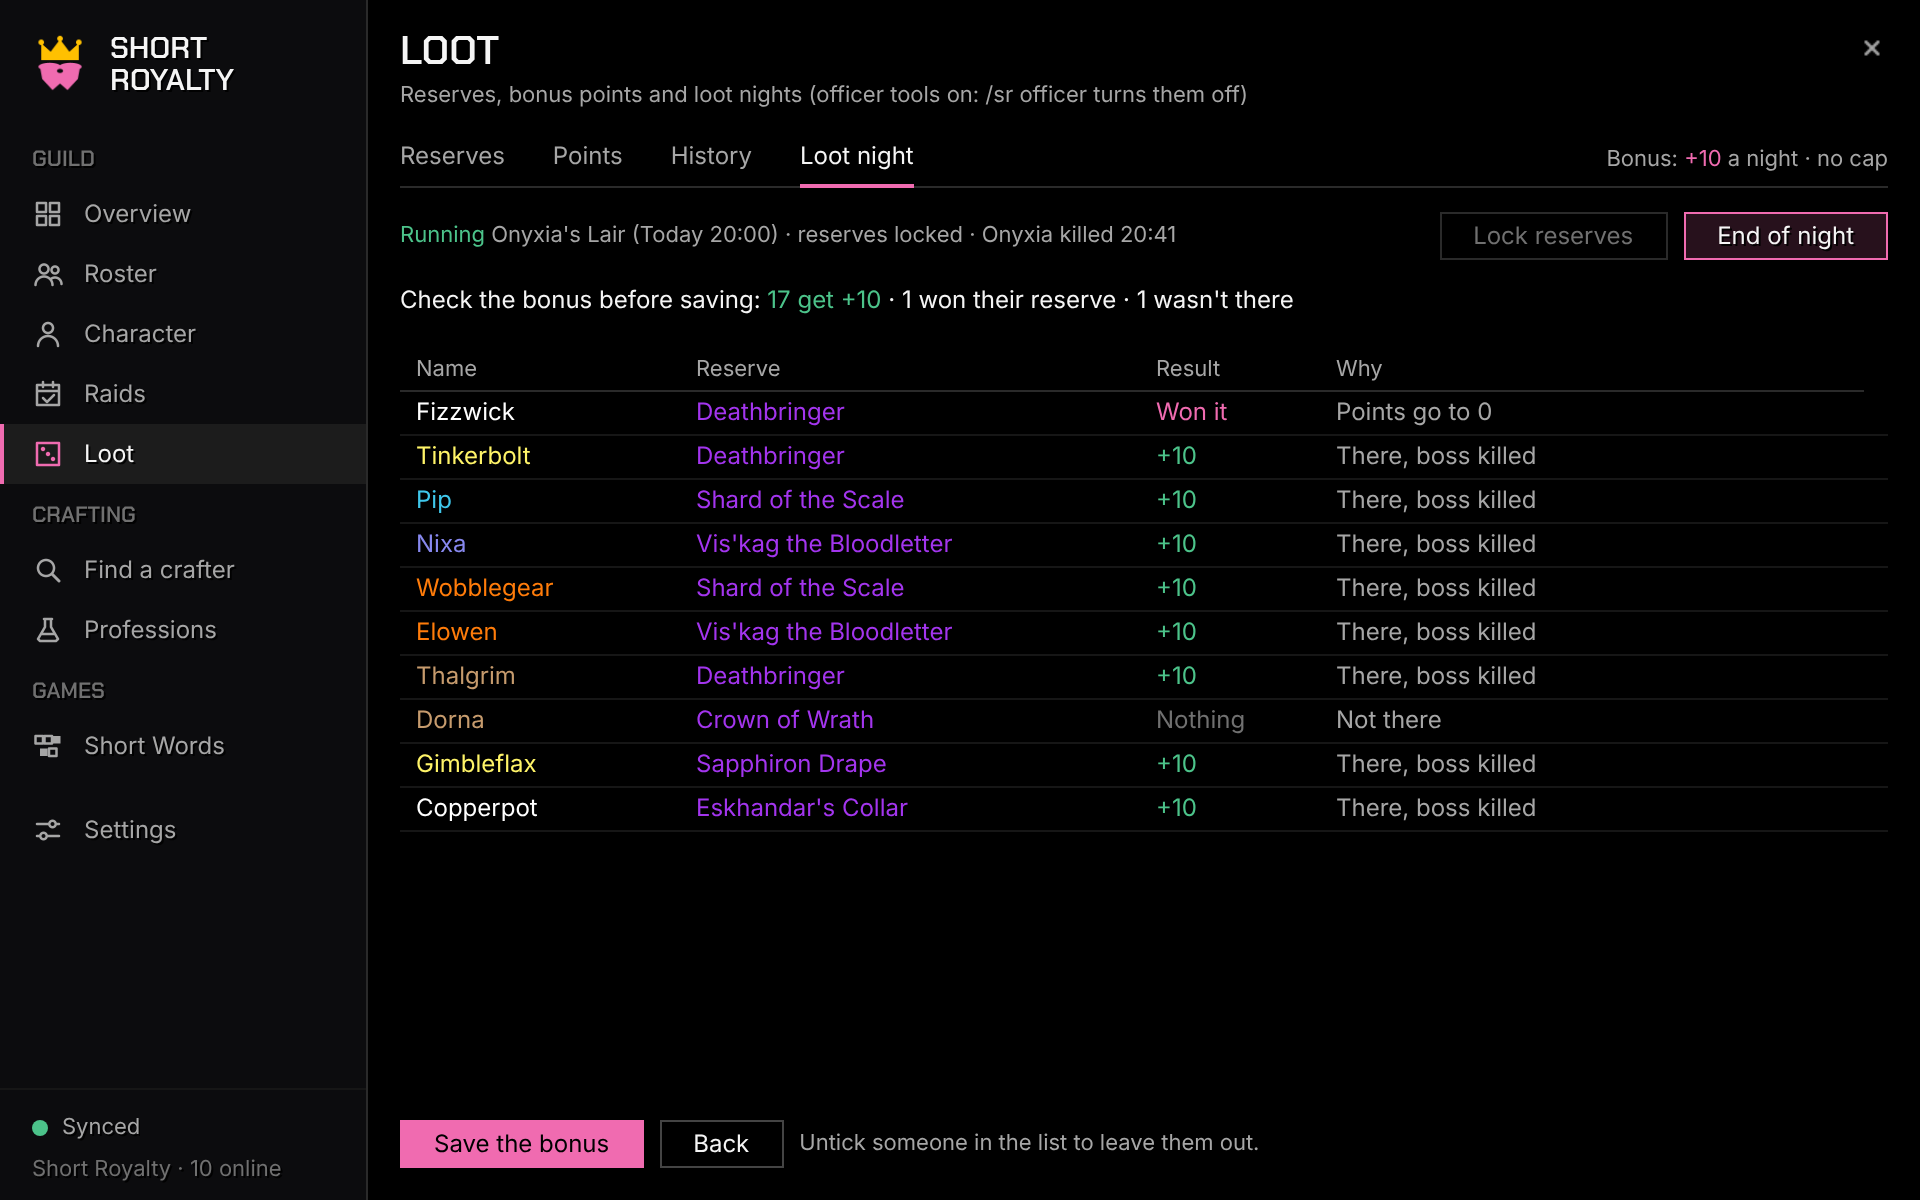
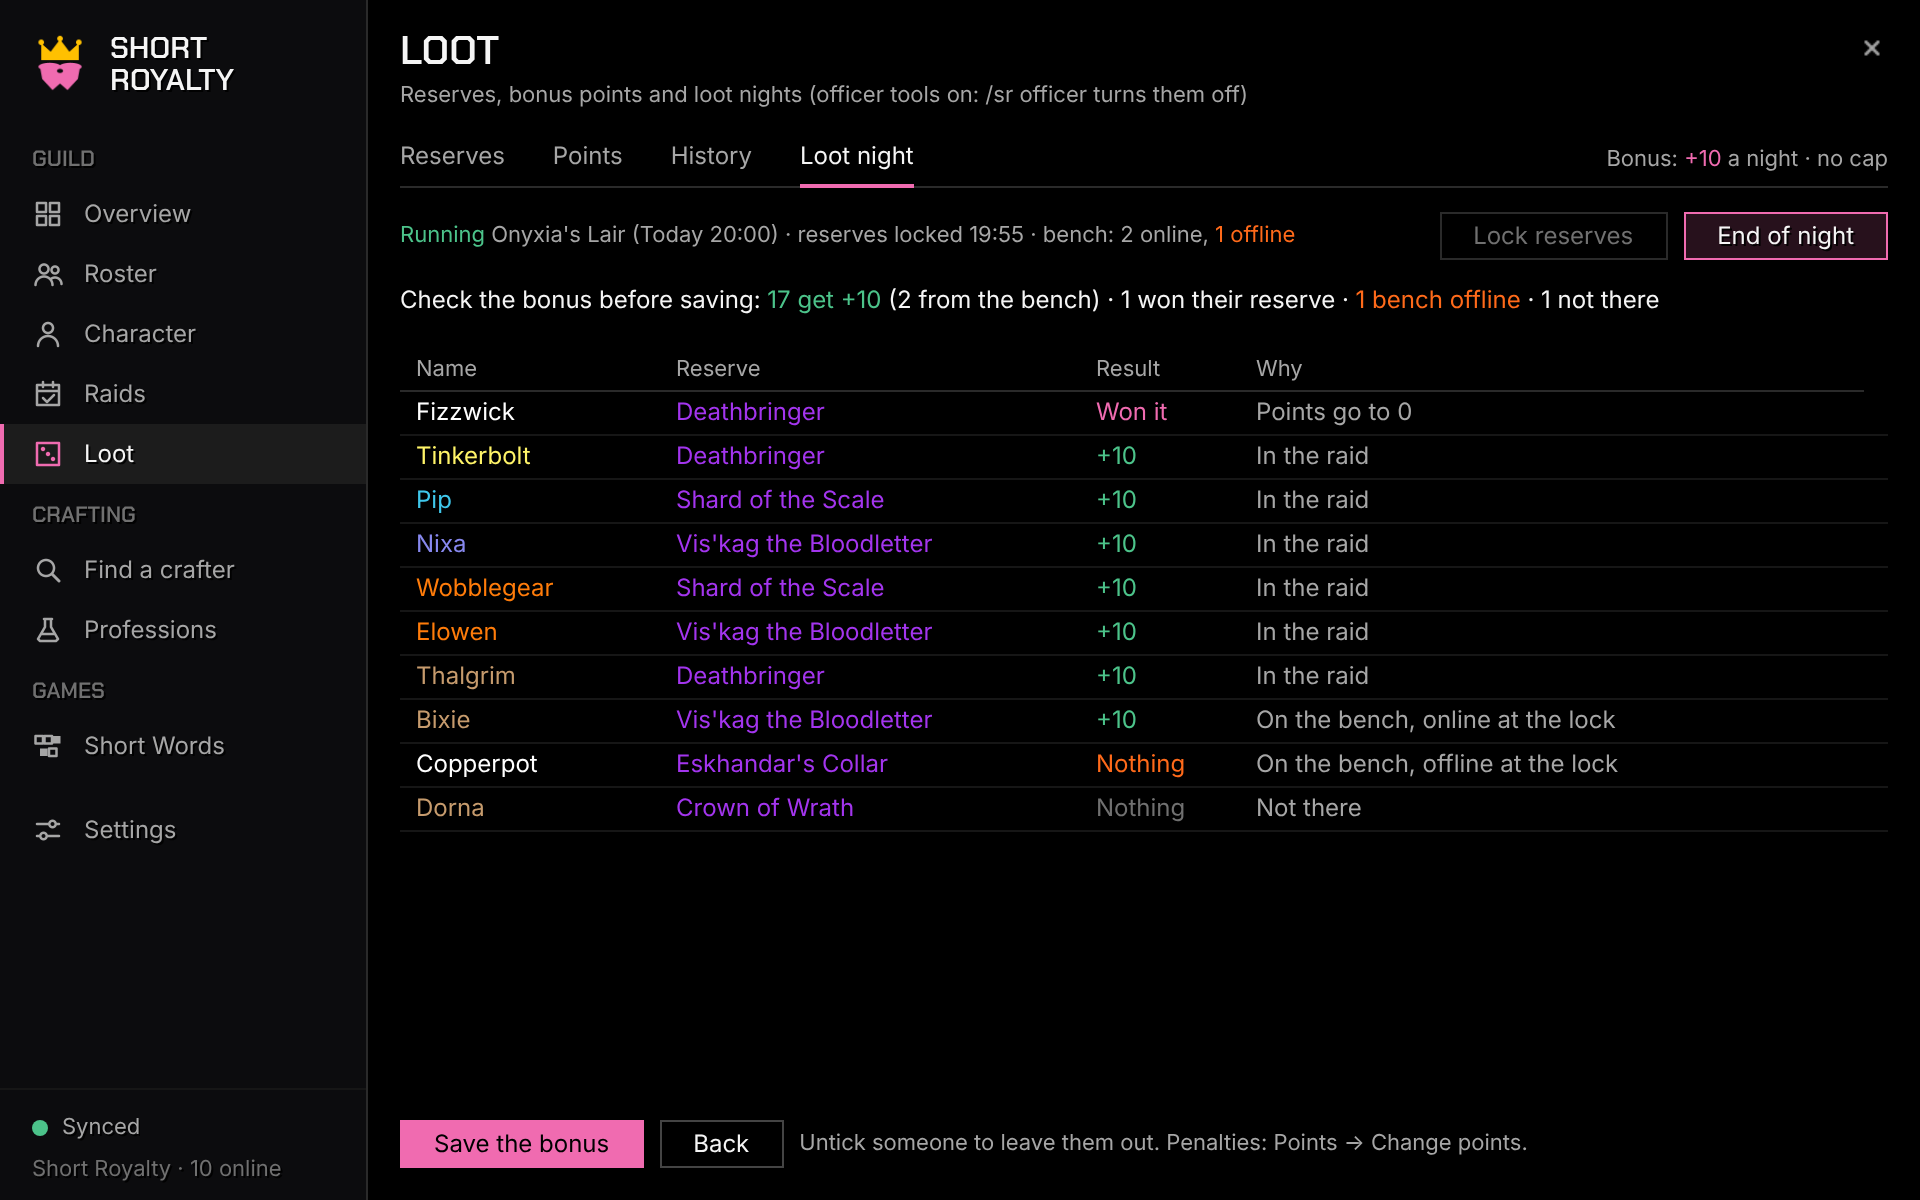
Reserve+: reserves per raid, bonus without a boss kill, bench at the lock; plan for replacing Gargul
Owner and Nuhra, 16 Nov: officers set reserves per raid (2 in Hyjal, 4
in Black Temple in TBC); reservers get the bonus even if their item's
boss wasn't killed; benched players get it if online when reserves were
locked. Plan gains a 'Replacing Gargul' section to come back to.

Claude-Session: https://claude.ai/code/session_01A7mubGaccCgzXvJy7GP49A

diff --git a/preview/index.html b/preview/index.html
@@ -870,7 +870,7 @@ function loot() {
         (it, c) => c.key === "n" ? (it.i === 2 ? '<span class="acc">• </span>' : "") + itm(it.i) : c.key === "p" ? pts(it.mine) : it.by || DASH,
         { click: true, sel: (it) => it.i === 2, style: `left:0;top:${t0 + 74}px;bottom:44px;width:${LW}px` }) +
       `<div class="abs" style="left:0;bottom:0;display:flex;gap:8px;align-items:center">${btn("Reserve this", "primary")}<span class="dim small">Points only count on the item you reserve tonight.</span></div>` +
-      `<div class="abs display dim" style="left:${RX}px;top:${t0 + 54}px;font-size:11px">WHO RESERVED WHAT  <span class="faint">·  15 of 22 signed up</span></div>` +
+      `<div class="abs display dim" style="left:${RX}px;top:${t0 + 54}px;font-size:11px">WHO RESERVED WHAT  <span class="faint">·  1 RESERVE EACH  ·  15 OF 22</span></div>` +
       list([{ key: "n", t: "Name", w: 120 }, { key: "i", t: "Reserve", w: 190 }, { key: "p", t: "Points", w: 64, r: 1 }], who,
         (r, c) => c.key === "n" ? nm(r.m) : c.key === "i" ? itm(r.i) : pts(r.p), { style: `left:${RX}px;right:0;top:${t0 + 74}px;bottom:0` });
   }
@@ -940,18 +940,18 @@ function loot() {
 
   // Loot night (officer)
   const end = S.lootMode === "end";
-  const top = `<div class="abs small" style="left:0;top:${t0 + 4}px;right:240px"><span class="good">Running</span> <span class="dim">Onyxia's Lair (Today 20:00)  ·  reserves locked  ·  Onyxia killed 20:41</span></div>
+  const top = `<div class="abs small" style="left:0;top:${t0 + 4}px;right:240px"><span class="good">Running</span> <span class="dim">Onyxia's Lair (Today 20:00)  ·  reserves locked 19:55  ·  bench: 2 online, <span class="spark">1 offline</span></span></div>
     <div class="abs" style="right:0;top:${t0}px;display:flex;gap:8px">${btn("Lock reserves", "disabled")}${btn("End of night", end ? "on" : "", 'data-lm="end"')}</div>`;
   if (end) {
-    const rows = [[1, 0, "Won it", "acc", "Points go to 0"], [5, 0, "+10", "good", "There, boss killed"], [0, 2, "+10", "good", "There, boss killed"], [4, 1, "+10", "good", "There, boss killed"],
-      [7, 2, "+10", "good", "There, boss killed"], [10, 1, "+10", "good", "There, boss killed"],
-      [9, 0, "+10", "good", "There, boss killed"], [8, 9, "Nothing", "faint", "Not there"], [3, 3, "+10", "good", "There, boss killed"], [6, 5, "+10", "good", "There, boss killed"]].map(([m, i, r, t, w]) => ({ m: M[m], i, r, t, w }));
+    const rows = [[1, 0, "Won it", "acc", "Points go to 0"], [5, 0, "+10", "good", "In the raid"], [0, 2, "+10", "good", "In the raid"], [4, 1, "+10", "good", "In the raid"],
+      [7, 2, "+10", "good", "In the raid"], [10, 1, "+10", "good", "In the raid"], [9, 0, "+10", "good", "In the raid"],
+      [14, 1, "+10", "good", "On the bench, online at the lock"], [6, 5, "Nothing", "spark", "On the bench, offline at the lock"], [8, 9, "Nothing", "faint", "Not there"]].map(([m, i, r, t, w]) => ({ m: M[m], i, r, t, w }));
     return head + top +
-      `<div class="abs" style="left:0;top:${t0 + 36}px">Check the bonus before saving: <span class="good">17 get +10</span>  ·  1 won their reserve  ·  1 wasn't there</div>` +
-      list([{ key: "n", t: "Name", w: 140 }, { key: "i", t: "Reserve", w: 230 }, { key: "r", t: "Result", w: 90 }, { key: "w", t: "Why", w: 200 }], rows,
+      `<div class="abs" style="left:0;top:${t0 + 36}px">Check the bonus before saving: <span class="good">17 get +10</span> (2 from the bench)  ·  1 won their reserve  ·  <span class="spark">1 bench offline</span>  ·  1 not there</div>` +
+      list([{ key: "n", t: "Name", w: 130 }, { key: "i", t: "Reserve", w: 210 }, { key: "r", t: "Result", w: 80 }, { key: "w", t: "Why", w: 260 }], rows,
         (r, c) => c.key === "n" ? nm(r.m) : c.key === "i" ? itm(r.i) : c.key === "r" ? `<span class="${r.t}">${r.r}</span>` : `<span class="dim">${r.w}</span>`,
         { style: `left:0;right:0;top:${t0 + 66}px;bottom:44px` }) +
-      `<div class="abs" style="left:0;bottom:0;display:flex;gap:8px;align-items:center">${btn("Save the bonus", "primary")}${btn("Back")}<span class="dim small">Untick someone in the list to leave them out.</span></div>`;
+      `<div class="abs" style="left:0;bottom:0;display:flex;gap:8px;align-items:center">${btn("Save the bonus", "primary")}${btn("Back")}<span class="dim small">Untick someone to leave them out. Penalties: Points → Change points.</span></div>`;
   }
   const drops = [[0, 4, "Rolling"], [5, 2, ""], [7, 1, ""], [10, 0, ""]];
   const rolls = [[1, true, 34, 120], [5, true, 88, 30], [9, true, 61, 0], [12, true, 12, 0], [13, false, 97, 0], [2, false, 55, 0]]

diff --git a/docs/proposals/loot-addon-plan.md b/docs/proposals/loot-addon-plan.md
@@ -14,12 +14,13 @@ reserve it.
 | Rule | Decision |
 |---|---|
 | Where | **Inside Short Royalty** (owner: "Great", 16 Nov). |
-| Reserves | **1** per character per raid night. |
+| Reserves | **Set per raid by officers** (owner, 16 Nov: "we used 2 in Mount Hyjal in TBC but 4 in Black Temple; it depends on how many bosses and items a raid has"). Default 1. Each reserve is a different item. |
 | Points belong to | **One character + one item.** Alts don't share. |
 | Switching items | Reserving a different item starts that item from 0. The old item **keeps** its points, and they count again the night you reserve it again. |
 | Points only count on your reserve | If you have 100 on the mace but reserved the trinket tonight and the mace drops, the 100 don't count. |
 | When you win | That item's points reset to 0. |
-| Boss not killed | **No bonus** for items from that boss. |
+| Boss not killed | **Bonus anyway** (owner changed this 16 Nov: with 10 bosses and only 8 killed, people reserving from bosses 9 and 10 mustn't fall behind). |
+| Bench | **Benched players get the bonus too**, so rotating people doesn't make them fall behind. But only if they're **online when reserves are locked** (Nuhra, 16 Nov: standby should mean standby). At the lock, officers see which benched players are online and which aren't; offline ones get no bonus that night, and officers can add a penalty by hand. |
 | Missed raid | Points stay, but don't grow. |
 | Bonus amount | Editable in the addon by officers (default +10). |
 | Cap | **None.** In TBC people reserved Dragonspine Trophy for three phases and built hundreds of points; that was intended. |
@@ -48,10 +49,10 @@ who don't raid never need to open it.
 ## How a raid night works
 
 1. **Before the raid:** the officer makes the raid night as now (Raids
-   page). Each member picks **one** item from that raid's loot list when
-   signing up. The list shows their saved points on every item, so they
+   page). Each member picks their reserves (as many as that raid allows)
+   from that raid's loot list when signing up. The list shows their saved points on every item, so they
    can go back to an item they've built points on. The officer locks
-   reserves before the pull.
+   reserves before the pull, and sees who on the bench is online.
 2. **Boss dies:** the officer's addon notes the kill (the game's "encounter
    ended" event). The loot officer clicks an item: the addon shows who
    reserved it with their bonus, and posts it to raid chat on a button
@@ -59,9 +60,10 @@ who don't raid never need to open it.
 3. **Players `/roll`.** The officer's addon reads the rolls: reservers
    first, by *roll + bonus*; then everyone else. Ties re-roll.
 4. **Award:** master loot or trade. The winner's points on that item go to 0.
-5. **End of night:** every reserver who was there, whose item's boss was
-   **killed**, and who didn't win it, gets +bonus (up to the cap). The
-   officer checks the list and confirms. It's saved in the history.
+5. **End of night:** every reserve that wasn't won gets +bonus, for
+   everyone who was in the raid or online on the bench at the lock
+   (whether the boss died or not; no cap). The officer checks the list and
+   confirms. It's saved in the history.
 
 ## Trust: why only officers can change points
 
@@ -122,15 +124,18 @@ winner.
 
 ## Build order (inside Short Royalty)
 
-1. Points history and rules: pure Lua, many tests (bonus, cap, reset on
-   win, per character + item, only your reserve counts, boss-killed rule,
-   undo).
+1. **Done 16 Nov** (`Core/Reserves.lua`, `tests/v090_reserves_spec.lua`):
+   points history and rules: bonus (no cap), reset on win, per character +
+   item, only tonight's reserves count, reserves per raid, bench at the
+   lock, changes by hand, penalties, moves, undo, ranking rolls (ties: more
+   points, then re-roll), end-of-night bonus.
 2. Loot lists: Onyxia now; the boss script ready for the patch; learning
    from drops.
 3. Reserve on sign-up, and sharing (reserves from players, points from
    officers).
 4. Loot page: Reserves, My points, History.
-5. Officer's Loot night: kills, rolls, award, end of night.
+5. Officer's Loot night: lock (with the bench check), rolls, raid check,
+   award, end of night. "Reserved by" on item tooltips.
 6. `/sr debug` checks, README, TESTING, pictures.
 
 Then a **test run** in a dungeon before 9 Dec. If it isn't tested by then,
@@ -148,23 +153,53 @@ softres.it. What it does and what we take:
 | Highest points + roll wins among reservers | Same. |
 | Equal totals: **more points wins**; equal points too: re-roll | **Adopted** (`Reserves.Rank`). |
 | Items nobody reserved: normal rolls | Same (anyone can roll; reservers come first). |
-| +10 per reserve, added when you reserve (also for that night) | Owner's rule instead: added after a night you were there, the boss died and you didn't win. |
-| 2 reserves a raid, both may go on one item (+20, one roll) | Owner's rule: 1 reserve. |
+| +10 per reserve, added when you reserve (also for that night) | Owner's rule instead: added after the night, if you were there (or online on the bench) and didn't win it. |
+| 2 reserves a raid, both may go on one item (+20, one roll) | Reserves per raid set by officers; different items each (ask the owner if doubling up should be allowed). |
 | Points live in a Google Sheet, pasted in each raid | In the addon, shared with everyone, history kept. |
 | Raid check: reservers not in the raid, raiders without a reserve | **Adopted** on Loot night (mock-up). |
-| Buff check | Not planned (owner asked for loot only). |
+| Buff check | Later: see "Replacing Gargul". |
 
 From Gargul (owner): item tooltips show who reserved the item. **Adopted**:
 on a raid night, every item tooltip (bags, loot window, AtlasLoot, NeedRoll)
-gets "Reserved by …" with points (mock-up `loot-tooltip.png`). Gargul's
-loot council, disenchanter and auto-loot aren't planned; if Gargul works in
-Forever, the guild can still use it for handing out loot.
+gets "Reserved by …" with points (mock-up `loot-tooltip.png`). Gargul (it
+supports Forever since 3 Oct) stays in use for handing out loot **for now**;
+the owner wants to replace it later: see the next section.
+
+## Replacing Gargul (later, after Reserve+)
+
+Owner, 16 Nov: "fine for now, but create a plan for us to come back to this
+as we don't want to use Gargul". Gargul is used for the first raids; these
+parts replace it one at a time, **each tested in a real raid before the
+next**. Features only, written from scratch (never Gargul's code).
+
+**Gate first (blocks parts 2–4):** an officer's `/sr debug` inside a raid
+must show which loot methods Forever allows. The client still has master
+loot (`Enum.LootMethod.Masterlooter`, `GiveMasterLoot`, `MasterLooterFrame`
+in the forever UI source), but only the game can say if raids use it. If
+it doesn't, parts 2 and 4 become "trade helpers" instead.
+
+| Part | What | Needs | Size |
+|---|---|---|---|
+| 1. Buff check | Before the pull: who's missing required buffs or consumables, who has the "bonus" world buffs (as Kerath Raidcheck). Officers pick the list. | Reading raid members' buffs inside an instance (Forever's newer restrictions: check in game). Buff spell IDs from Forever's data, verified twice. | Small |
+| 2. Hand out in one click | On Loot night, Award gives the item to the winner straight from the loot window (master loot), and records the win. Without master loot: a trade reminder and "trade this to X" when the winner opens a trade. | Master loot, or trade events. | Medium |
+| 3. Disenchanter and auto-loot rules | Officers name a disenchanter (and a banker for materials); items nobody needs, and items matching rules (e.g. all greens, all Onyxia hide bags), go to them automatically. | Master loot. | Medium |
+| 4. Loot council | For chosen items, officers vote in a small window: each candidate's reserve and points, item level of what they wear now (we already have their gear), attendance %, and past wins. The raid leader confirms. | Addon messages between officers inside the raid between pulls (check in game). | Large |
+| 5. Loot history | Who got what, when, from which boss; search and filter. | Nothing new (the win entries already exist). | Small |
+
+Gargul's other modes (GDKP gold auctions, TMB/DFT/PRIO3 lists) aren't
+planned unless the guild asks.
 
 ## Answered 16 Nov
 
 - Reserves are **visible to everyone** before the lock.
 - Starting bonus **+10 per night** (officers can change it).
 - The guild's TBC tool was **Kerath Raidcheck** with Gargul (see above).
+- 16 Nov (owner, Nuhra): reserves per raid set by officers; bonus even if
+  the boss isn't killed; benched players get it if online at the lock.
+- Still to ask: may a player put two of their reserves on the same item
+  (Kerath Raidcheck allows it: double points, one roll)? Built as "no".
+- Still to ask: "delete their points" for offline bench: no bonus that
+  night (built), or also a penalty / wipe? Officers can do either by hand.
 
 ## Mock-ups (16 Nov)
 

diff --git a/CLAUDE.md b/CLAUDE.md
@@ -32,9 +32,14 @@ shared only over the guild **addon channel**: no website, no server, no uploads.
 - **v0.9.0 Reserve+ (being built, not released):** soft reserves with bonus
   points (the guild's TBC system), **inside Short Royalty** (owner, 16 Nov).
   Rules and plan: `docs/proposals/loot-addon-plan.md` (owner's table: 1
-  reserve, points per character + item, **no cap**, reset on win, no bonus
-  if the boss wasn't killed, reserver always beats non-reserver, changes by
-  hand / penalties below 0 / moves to an alt / undo). Step 1 done:
+  points per character + item, **no cap**, reset on win, reserver always
+  beats non-reserver, changes by hand / penalties below 0 / moves to an alt
+  / undo). **Changed 16 Nov:** reserves per raid set by officers (ledger
+  kind `p`, `PicksFor`, default 1); bonus even if the boss wasn't killed;
+  bench gets it if online at the lock (`BenchAtLock`, `NightGrants(picks,
+  where, won)` with where = raid | bench | offline | nil). **Replacing
+  Gargul later:** plan section "Replacing Gargul" (gate: does Forever allow
+  master loot in raids). Step 1 done:
   `Core/Reserves.lua` = officer-only **ledger** `guild.reserves.ledger[id]`
   (kinds n/w/a/m/s/x, never edited, replayed in (c, id) order; `Merge`
   checks `RaidBoard.CanLead(by)` on our roster), `Replay`, `Rank`,
@@ -1143,8 +1148,9 @@ refer to `git show v0.6.0:TESTING.md`.
    TESTING.md 18–29.
 4. CurseForge: rename the project from "Short Kings" and archive the old
    files (owner's job, `docs/CURSEFORGE.md`).
-5. Reserve+: verdict on the mock-ups (`docs/images/loot*.png`). The guild's
-   TBC tool was Kerath Raidcheck + Gargul (compared in the plan).
+5. Reserve+: verdict on the mock-ups (`docs/images/loot*.png`); two
+   questions in the plan's "Answered 16 Nov" (two reserves on one item?
+   offline bench: no bonus only, or a penalty too?).
 
 ## Answers already given to the guild (stay consistent)
 - **Alts:** linked automatically once each alt has logged in with the addon

diff --git a/CHANGELOG.md b/CHANGELOG.md
@@ -5,9 +5,12 @@
 Being built; nothing to see in game yet.
 
 - **The points rules** (step 1 of `docs/proposals/loot-addon-plan.md`):
-  points per character and item, a bonus each night you reserve an item,
-  were there, its boss died and you didn't get it (no cap); winning sets it
-  to 0; points on other items wait until you reserve them again.
+  points per character and item. Every reserved item you didn't get gains
+  the bonus after the night (no cap), if you were in the raid, or on the
+  bench and online when reserves were locked; whether its boss died
+  doesn't matter. Winning an item sets it to 0; points on other items
+  wait until you reserve them again. Officers set how many reserves each
+  raid allows (1 until set).
 - Officers and raid leaders can change points by hand with a reason (a
   penalty can go below 0), move points to another character or item (for
   someone asked to main an alt), change the bonus, and undo any change.
